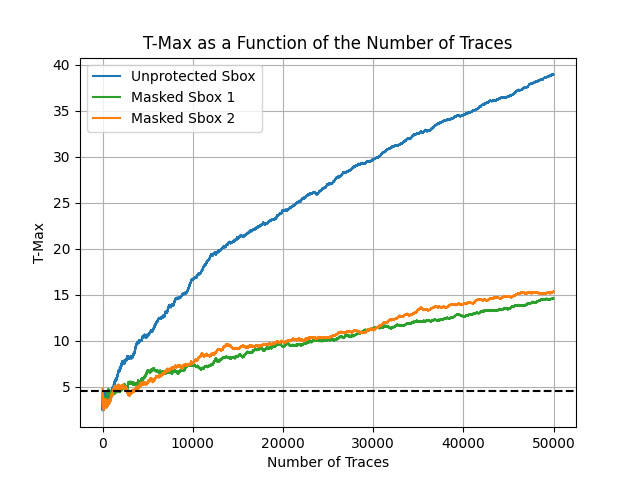
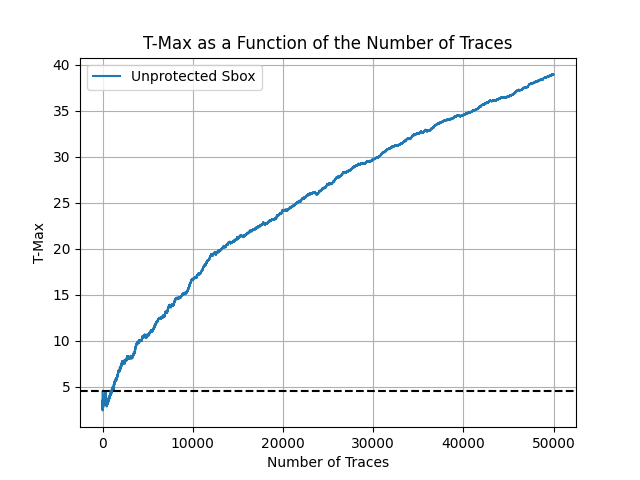
there may be issues with the MetriSCA dataset for t-test so we will veirfy it with just the unprotected sbox traces

Changed region(s): [[0.1562, 0.5938, 0.875, 0.875], [0.125, 0.1875, 0.375, 0.2812]]

diff --git a/Testing/MetricVerification.py b/Testing/MetricVerification.py
@@ -112,24 +112,24 @@ def t_test_verification():
         "unprotected_sbox\\single\\traces\\oscilloscope_traces\\oscilloscope_traces_50k_3000_samples_fixed_positive_uint8_t.bin")
     unmasked_random = read_bin_file_traces(
         "unprotected_sbox\\single\\traces\\oscilloscope_traces\\oscilloscope_traces_50k_3000_samples_random_positive_uint8_t.bin")
-    masked_fixed = read_bin_file_traces(
-        "masked_sbox1\\traces\\oscilloscope_traces\\oscilloscope_traces_50k_3000_samples_fixed_positive_uint8_t.bin")
-    masked_random = read_bin_file_traces(
-        "masked_sbox1\\traces\\oscilloscope_traces\\oscilloscope_traces_50k_3000_samples_random_positive_uint8_t.bin")
-    masked_fixed_2 = read_bin_file_traces(
-        "masked_sbox2\\traces\\oscilloscope_traces\\oscilloscope_traces_50k_3000_samples_fixed_positive_uint8_t.bin")
-    masked_random_2 = read_bin_file_traces(
-        "masked_sbox2\\traces\\oscilloscope_traces\\oscilloscope_traces_50k_3000_samples_random_positive_uint8_t.bin")
+    # masked_fixed = read_bin_file_traces(
+    #     "masked_sbox1\\traces\\oscilloscope_traces\\oscilloscope_traces_50k_3000_samples_fixed_positive_uint8_t.bin")
+    # masked_random = read_bin_file_traces(
+    #     "masked_sbox1\\traces\\oscilloscope_traces\\oscilloscope_traces_50k_3000_samples_random_positive_uint8_t.bin")
+    # masked_fixed_2 = read_bin_file_traces(
+    #     "masked_sbox2\\traces\\oscilloscope_traces\\oscilloscope_traces_50k_3000_samples_fixed_positive_uint8_t.bin")
+    # masked_random_2 = read_bin_file_traces(
+    #     "masked_sbox2\\traces\\oscilloscope_traces\\oscilloscope_traces_50k_3000_samples_random_positive_uint8_t.bin")
 
     # compute t-test for each dataset
     t, tmax = t_test_tvla(unmasked_fixed, unmasked_random)
-    t1, tmax1 = t_test_tvla(masked_fixed, masked_random)
-    t2, tmax2 = t_test_tvla(masked_fixed_2, masked_random_2)
+    # t1, tmax1 = t_test_tvla(masked_fixed, masked_random)
+    # t2, tmax2 = t_test_tvla(masked_fixed_2, masked_random_2)
 
     # plot t-test
     plt.plot(t[1000:1500], label="Unprotected Sbox", color='tab:blue')
-    plt.plot(t1[1000:1500], label="Masked Sbox 1", color='tab:green')
-    plt.plot(t2[1000:1500], label="Masked Sbox 2", color='tab:orange')
+    # plt.plot(t1[1000:1500], label="Masked Sbox 1", color='tab:green')
+    # plt.plot(t2[1000:1500], label="Masked Sbox 2", color='tab:orange')
 
     plt.title("T-test implementation using MetriSCA Example Traces")
     plt.xlabel("Sample")
@@ -143,8 +143,8 @@ def t_test_verification():
 
     # plot t-max
     plt.plot(tmax, label="Unprotected Sbox", color='tab:blue')
-    plt.plot(tmax1, label="Masked Sbox 1", color='tab:green')
-    plt.plot(tmax2, label="Masked Sbox 2", color='tab:orange')
+    # plt.plot(tmax1, label="Masked Sbox 1", color='tab:green')
+    # plt.plot(tmax2, label="Masked Sbox 2", color='tab:orange')
 
     plt.title("T-Max as a Function of the Number of Traces")
     plt.xlabel("Number of Traces")
@@ -153,6 +153,7 @@ def t_test_verification():
     plt.legend()
     plt.grid()
     plt.show()
+
 
 
 def correlation_validation():
